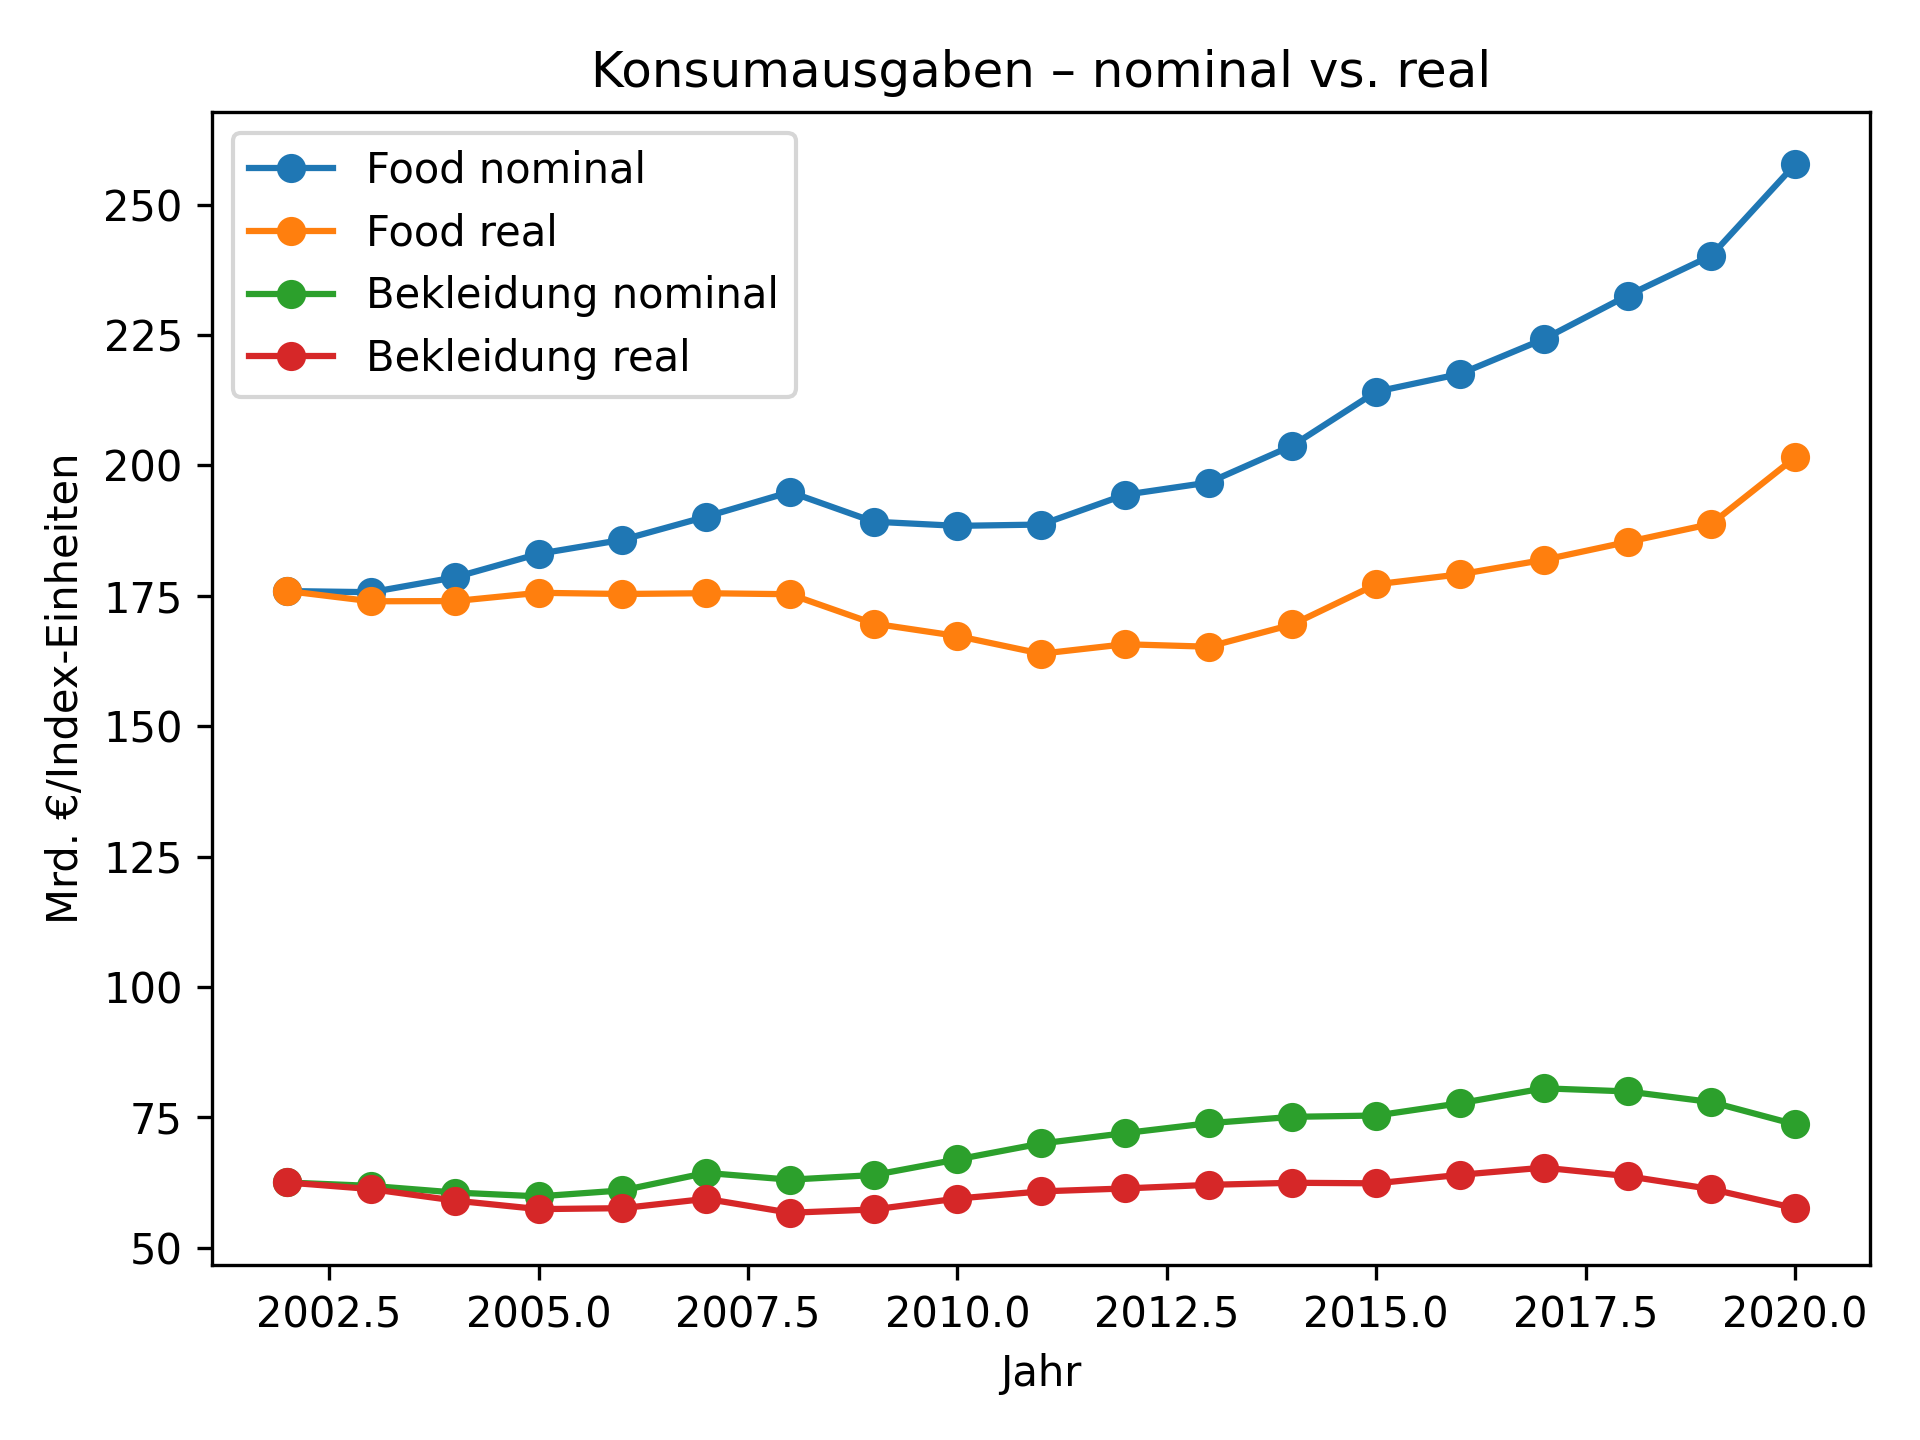
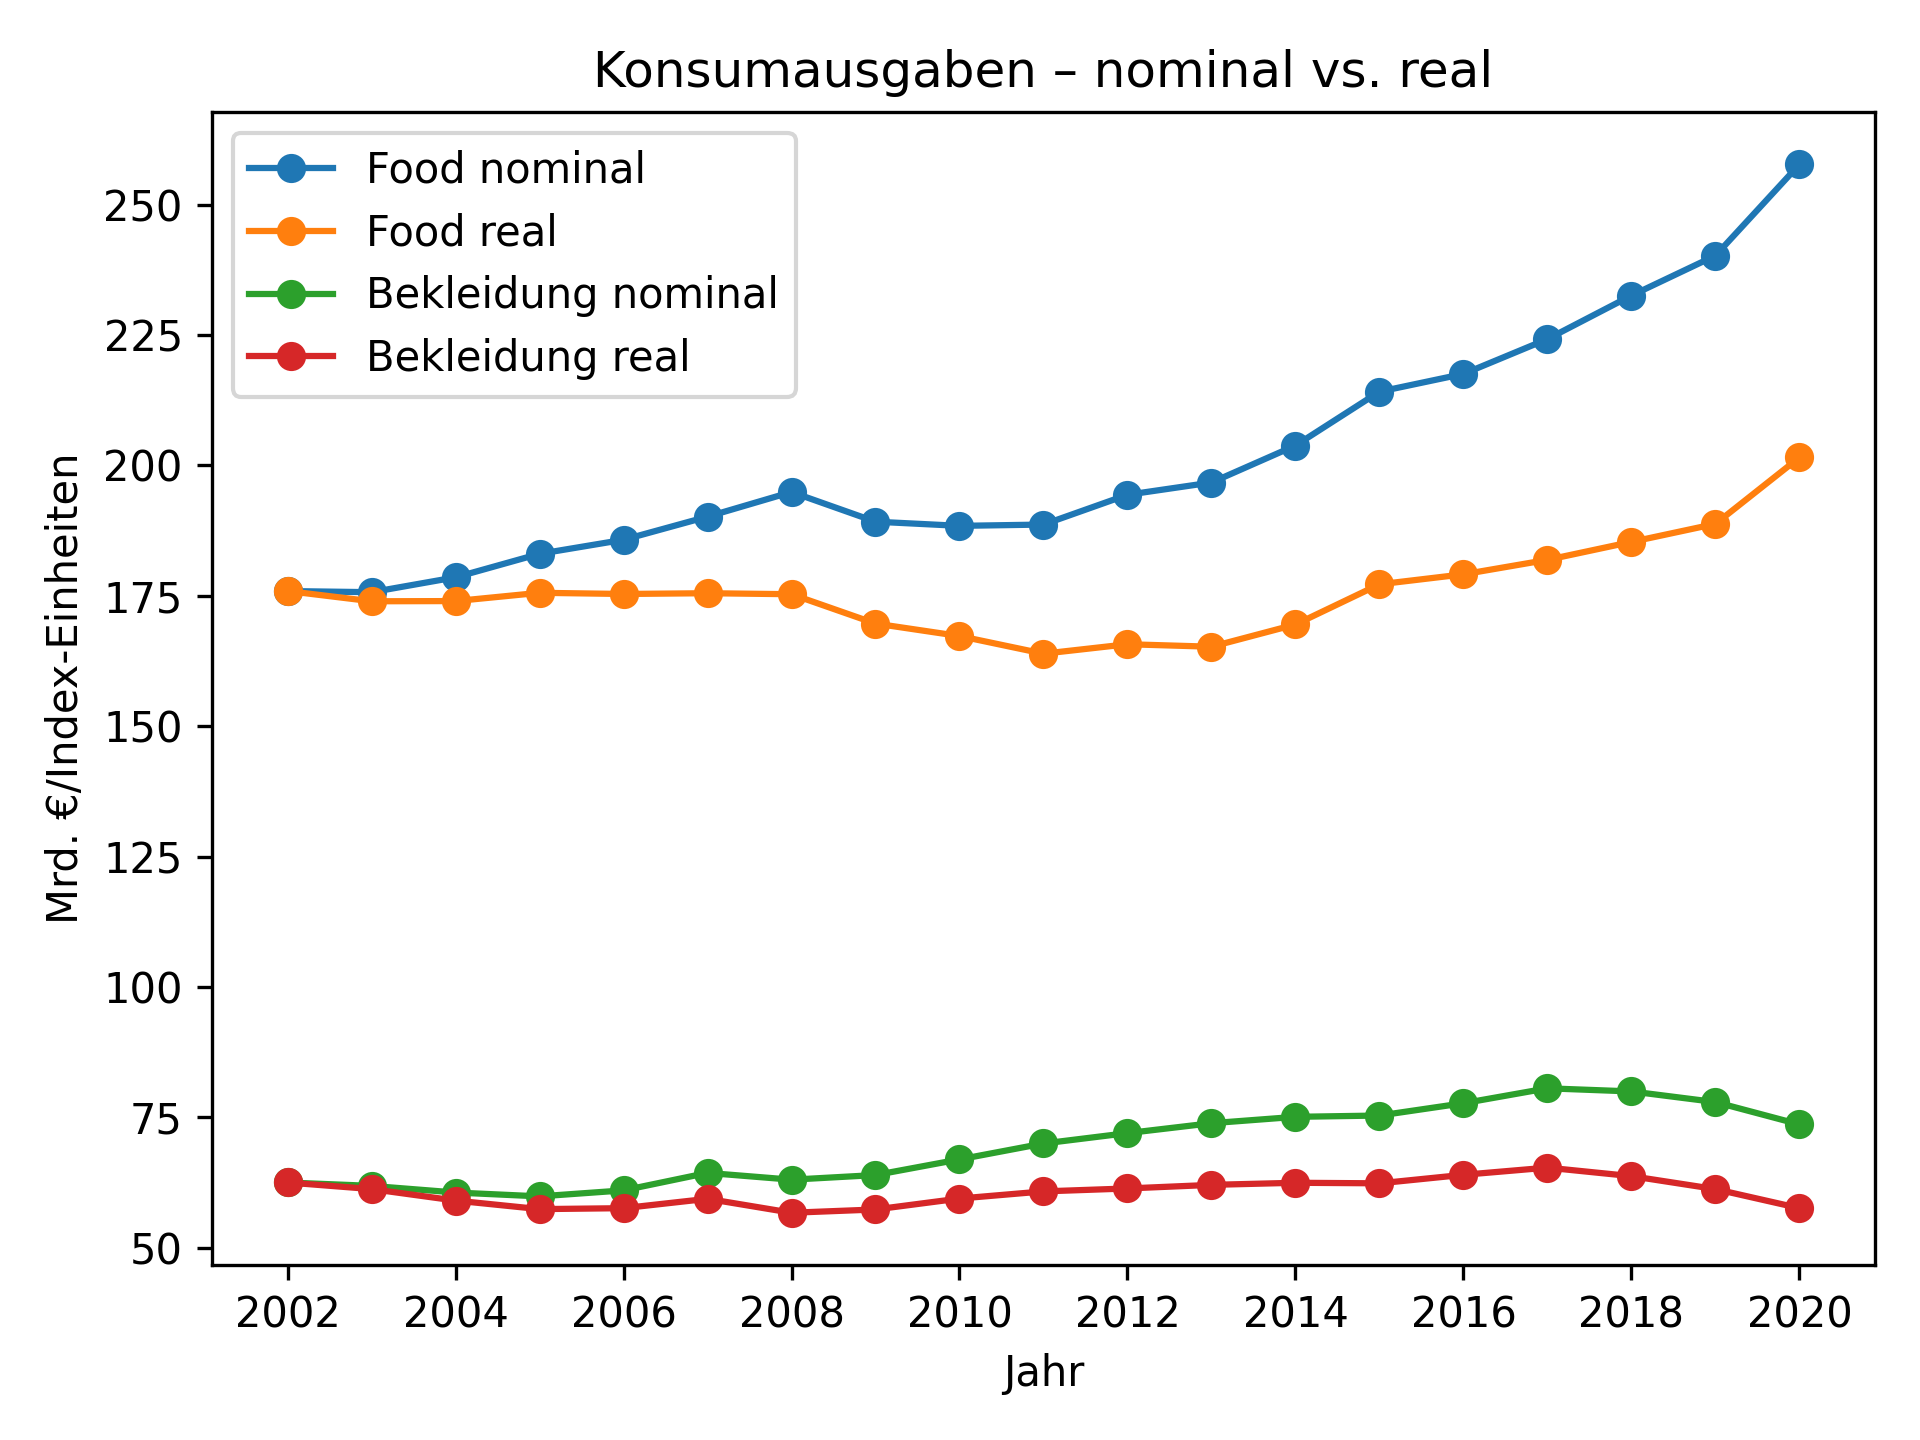
Ganzzahlen in die X-Axe gelegt

diff --git a/Steigender Warenkorbwert/Frage1.py b/Steigender Warenkorbwert/Frage1.py
@@ -1,5 +1,6 @@
 import pandas as pd
 import matplotlib.pyplot as plt
+import matplotlib.ticker as mticker
 
 # ---------- 1) Daten laden ----------
 
@@ -99,6 +100,7 @@ ax1.plot(df["Jahr"], df["LM_Umsatz_real"], marker="o", label="real (inflationsbe
 ax1.set_title("Lebensmitteleinzelhandel – Umsatz nominal vs. real")
 ax1.set_xlabel("Jahr"); ax1.set_ylabel("Mio. €")
 ax1.legend()
+ax1.xaxis.set_major_locator(mticker.MaxNLocator(integer=True))
 fig1.tight_layout()
 fig1.savefig("Bilder\lm_umsatz_nominal_vs_real.png", dpi=300)
 plt.show()
@@ -112,6 +114,7 @@ ax2.plot(df["Jahr"], df["Bekl_real"], marker="o", label="Bekleidung real")
 ax2.set_title("Konsumausgaben – nominal vs. real")
 ax2.set_xlabel("Jahr"); ax2.set_ylabel("Mrd. €/Index-Einheiten")
 ax2.legend()
+ax2.xaxis.set_major_locator(mticker.MaxNLocator(integer=True))
 fig2.tight_layout()
 fig2.savefig("Bilder\konsum_nominal_vs_real.png", dpi=300)
 plt.show()
